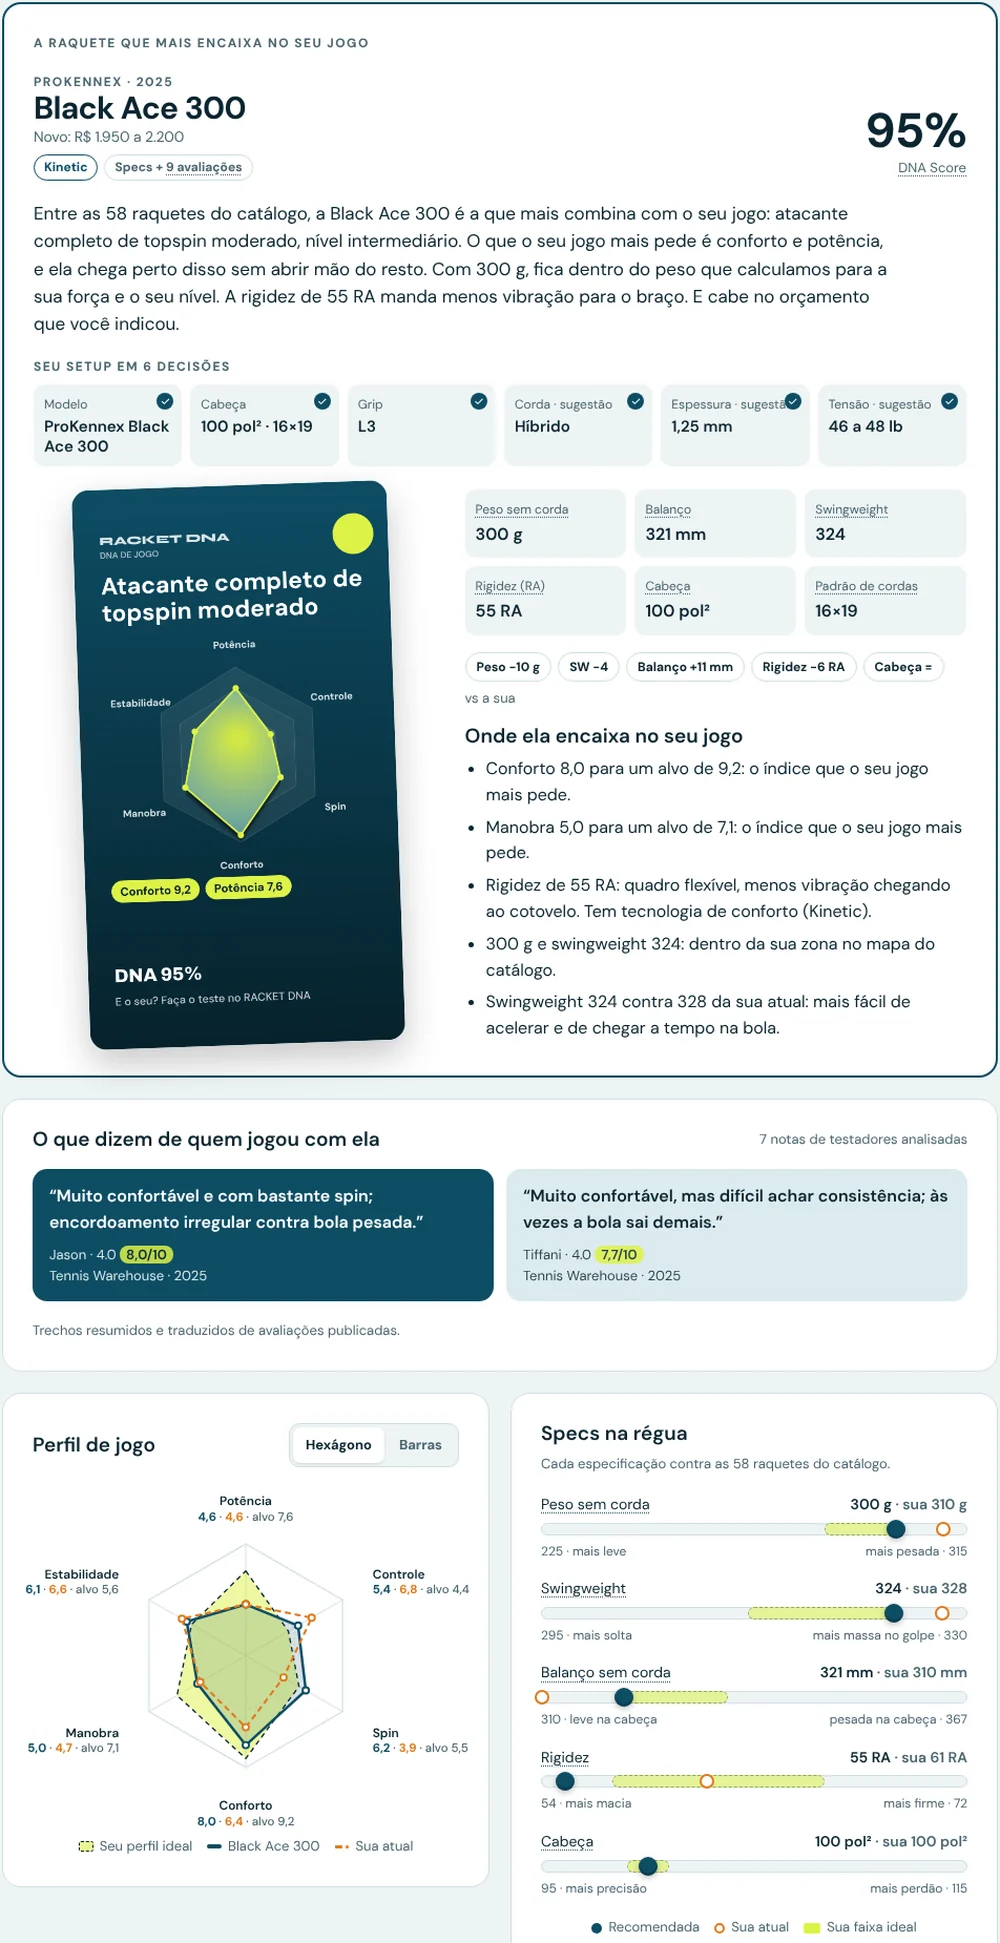
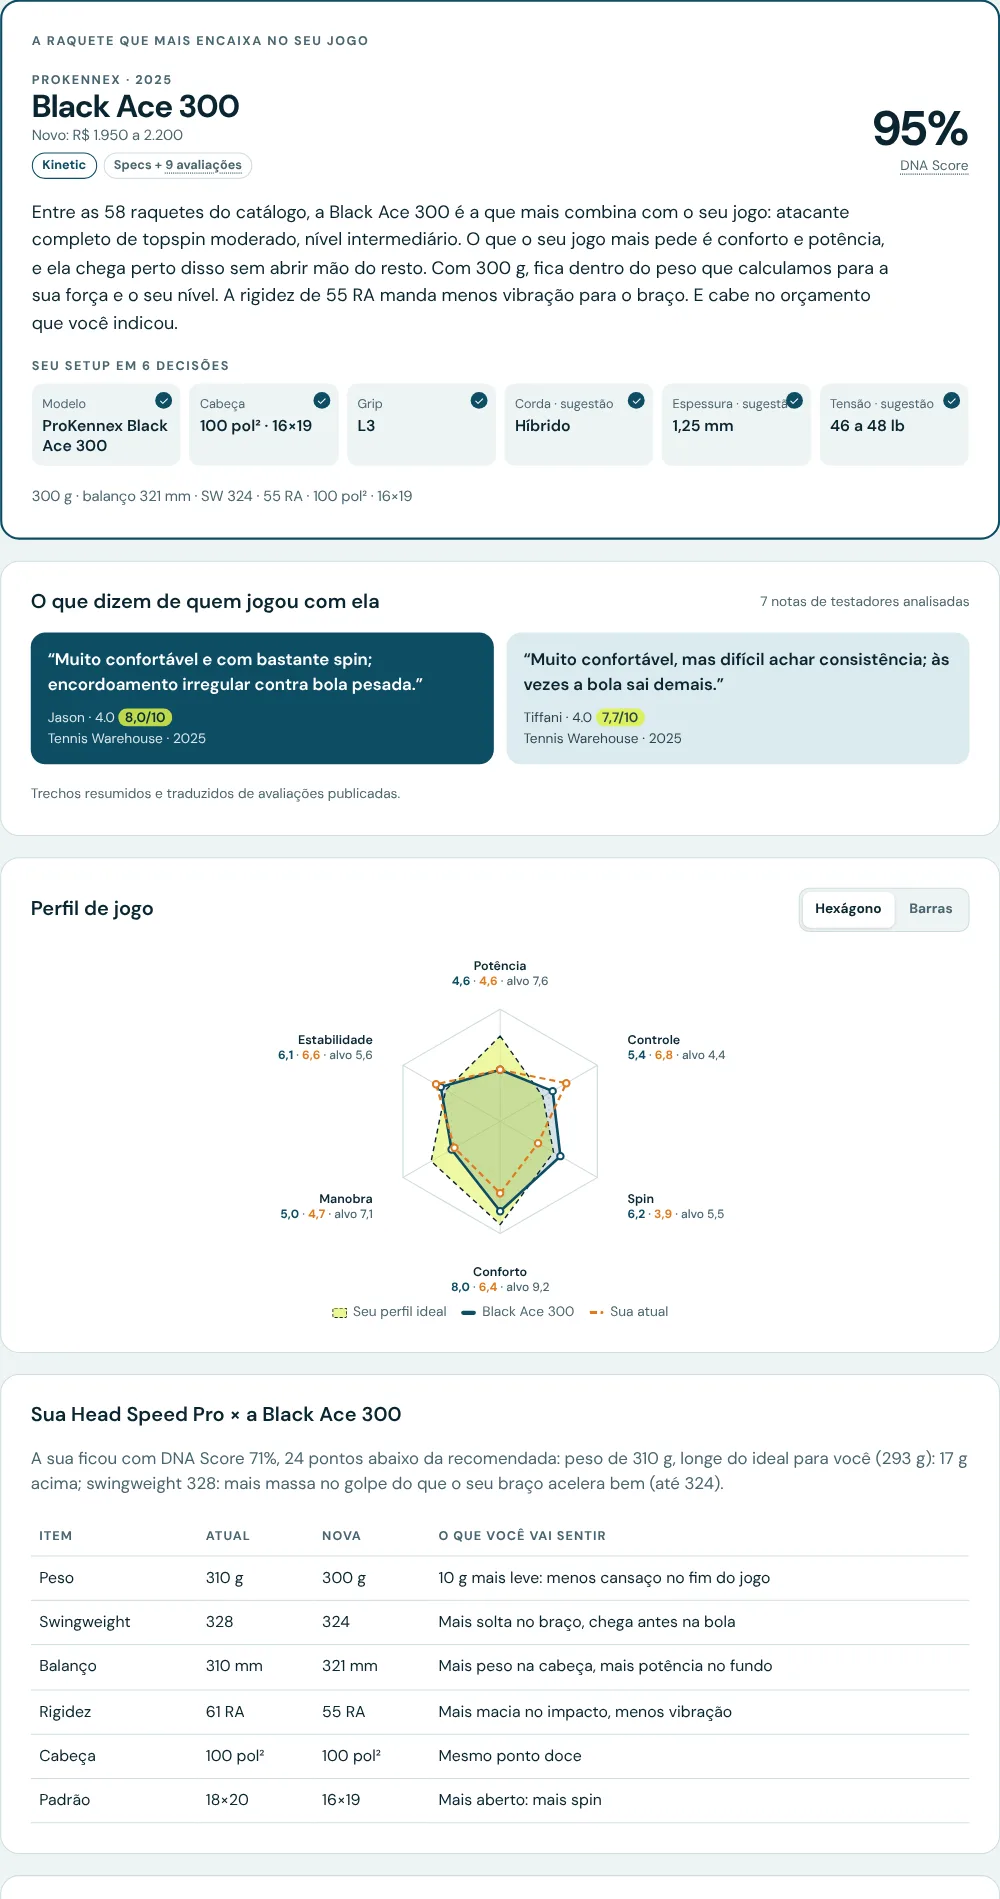
RACKET DNA: relatório mais limpo, de 12 para 6 telas no celular
- Topo: nome, DNA Score, parágrafo do porquê, setup em 6 decisões e uma linha de specs; sai a grade repetida, as etiquetas 'vs a sua', a lista 'Onde ela encaixa' e o card (vai para o fim).
- Perfil de jogo fica; régua de specs e 'O que observar na adaptação' ficam só no PDF.
- Sua atual × a nova num bloco só (tabela + por que ficou para trás).
- Saem os cartões de 2º e 3º (o ranking dos 10 mostra) e 'Antes de comprar' (no PDF).
- Comparador fechado atrás de 'Comparar duas raquetes'; cálculo da tensão em 'Ver o cálculo'.
- Card do DNA no painel do fim, com os botões de compartilhar.

Claude-Session: https://claude.ai/code/session_01FeT5v1rE5G5yAM5JWk7pgS

diff --git a/racket/index.html b/racket/index.html
@@ -286,6 +286,12 @@ footer{font-size:13px;color:var(--muted);border-top:1px solid var(--line);paddin
 .rpeek::after{content:"";position:absolute;inset:0;background:linear-gradient(180deg,transparent 45%,var(--bg) 100%)}
 .rpeek figcaption{position:absolute;left:50%;bottom:18px;transform:translateX(-50%);z-index:1;background:#0E4D64;color:#FFFFFF;font-weight:700;font-size:14px;padding:8px 14px;border-radius:99px;white-space:nowrap}
 @media (max-width:760px){.hook{grid-template-columns:minmax(0,1fr)}.rpeek{height:260px}}
+.specline{font-size:14px;color:var(--muted);margin:0}
+details.panel>summary.cmpsum{cursor:pointer;list-style:none;display:flex;justify-content:space-between;align-items:center;gap:12px;min-height:44px}
+details.panel>summary.cmpsum::-webkit-details-marker{display:none}
+details.panel>summary.cmpsum::after{content:'+';font-size:26px;font-weight:600;color:var(--pri)}details.panel[open]>summary.cmpsum::after{content:'−'}
+summary.cmpsum>span{display:flex;flex-direction:column;gap:4px}
+details.calc>summary{cursor:pointer;font-weight:600;color:var(--pri);min-height:24px;padding:4px 0}
 .whypara{font-size:17px;line-height:1.55;margin:0;max-width:70ch}
 .herocol{display:flex;flex-direction:column;gap:18px;min-width:0}.homecard{min-height:0}
 .cardpair{display:flex;justify-content:center;align-items:flex-start;padding:6px 0 10px}.cardpair .cardimg{width:50%;max-width:220px}.cardpair .cardimg+.cardimg{transform:rotate(3deg) translateY(14px);margin-left:-14px}.herocard .cardimg{max-width:300px}
@@ -1391,63 +1397,39 @@ function renderReport(){
     ${racketHead(w)}
     <p class="whypara">${whyPara(w,T)}</p>
     ${setup6(r,gs,st)}
-    <div class="hero-r">
-      <div id="cardOut" class="cardwrap herocard" aria-label="Seu DNA de jogo em card"></div>
-      <div style="display:flex;flex-direction:column;gap:16px">
-        ${specGrid(r)}
-        ${c?`<div class="row" style="gap:6px">${[['Peso','wt',' g'],['SW','sw',''],['Balanço','bal',' mm'],['Rigidez','ra',' RA'],['Cabeça','head','']].map(([l,k,u])=>{const d=r[k]-c[k];return `<span class="tag" style="color:var(--ink)">${l} ${d===0?'=':(d>0?'+':'−')+Math.abs(d)+u}</span>`}).join('')}<span class="note">vs a sua</span></div>`:''}
-        <div><h3 style="margin-bottom:8px">Onde ela encaixa no seu jogo</h3><ul class="why">${why(r,c,T).map(x=>`<li>${x}</li>`).join('')}</ul></div>
-      </div>
+    <p class="mono specline">${r.wt} g · balanço ${r.bal} mm · SW ${r.sw} · ${r.ra} RA · ${r.head} pol² · ${r.pat.replace('x','×')}</p>
+  </div>
     </div>
   </div>
   ${(REVQ[r.id]||[]).length?`<div class="panel"><div class="phead"><h3>O que dizem de quem jogou com ela</h3><span class="note">${r.ntw?r.ntw+' notas de testadores analisadas':'Reviews publicadas'}</span></div><div class="wq">${REVQ[r.id].slice(0,3).map(q=>`<div class="q"><p>“${esc(q[5])}”</p><small>${esc(q[1])}${q[2]?' · '+esc(q[2]):''}${q[3]?` <b>${dec(q[3])}/10</b>`:''}<br>${esc(q[0])}${q[4]?' · '+esc(q[4]):''}</small></div>`).join('')}</div><p class="note">Trechos resumidos e traduzidos de avaliações publicadas.</p></div>`:''}
-  <div class="two">
-    <div class="panel">${viz('rp',series,T,r.ix,c?c.ix:null)}</div>
-    <div class="panel">
-      <h3>Specs na régua</h3><p class="note" style="margin-top:-10px">Cada especificação contra as ${RK.length} raquetes do catálogo.</p>
-      ${specBars(r,c,Z)}
-    </div>
+  <div class="panel">${viz('rp',series,T,r.ix,c?c.ix:null)}</div>
   </div>
-  <div class="two">
-    <div class="panel">
-      <h3>O que observar na adaptação</h3><ul class="why">${attention(r).map(x=>`<li>${x}</li>`).join('')}</ul>
-      <div class="row" style="gap:22px">${c?`<div class="arm">${gauge(c.ix.arm)}<div><strong>Hoje: ${dec(c.ix.arm)}</strong><p class="muted" style="font-size:14px">${esc(c.model)}</p></div></div><span class="vs">→</span>`:''}<div class="arm">${gauge(r.ix.arm)}<div><strong>Braço Seguro: ${dec(r.ix.arm)}</strong><p class="muted" style="font-size:14px">${armTxt(r.ix.arm)}</p></div></div></div>
-      ${gs?`<p><strong>Grip recomendado: L${gs.g}</strong> <span class="muted">(${gs.src}). Na dúvida entre dois, escolha o menor e use overgrip.${A.dom==='L'?' Canhoto: o overgrip enrola no sentido contrário (puxando para a esquerda).':''}</span></p>`:''}
-    </div>
-    ${c?`<div class="panel"><h3>O que muda em relação à ${esc(c.name)}</h3><div class="tbl"><table><thead><tr><th>Item</th><th>Atual</th><th>Nova</th><th>O que você vai sentir</th></tr></thead><tbody>${feel(r,c).map(x=>`<tr><td>${x[0]}</td><td class="n">${x[1]}</td><td class="n">${x[2]}</td><td>${x[3]}</td></tr>`).join('')}</tbody></table></div></div>`
-     :`<div class="panel"><h3>Comparação com a sua raquete</h3><p class="muted">Você não informou um modelo do catálogo. Diga qual é a sua e refaça para ver a diferença lado a lado.</p></div>`}
-  </div>`;
+  ${c?`<div class="panel"><h3>Sua ${esc(c.name)} × a ${esc(r.model)}</h3>${curFit?`<p class="muted">A sua ficou com DNA Score ${curFit.fit}%, ${w.fit-curFit.fit} pontos abaixo da recomendada${curFit.pen.length?': '+curFit.pen.slice(0,2).map(p=>p[1].charAt(0).toLowerCase()+p[1].slice(1)).join('; ')+'.':'.'}</p>`:''}<div class="tbl"><table><thead><tr><th>Item</th><th>Atual</th><th>Nova</th><th>O que você vai sentir</th></tr></thead><tbody>${feel(r,c).map(x=>`<tr><td>${x[0]}</td><td class="n">${x[1]}</td><td class="n">${x[2]}</td><td>${x[3]}</td></tr>`).join('')}</tbody></table></div></div>`:''}`;
   if(tier>=2){
-    h+=`<div class="mini">${ranked.slice(1,3).map((x,i)=>`<div class="panel"><p class="eyebrow">${i+2}º lugar</p>${racketHead(x)}<p class="mono" style="font-size:14px">${x.r.wt} g · ${x.r.bal} mm · SW ${x.r.sw} · ${x.r.ra} RA · ${x.r.head} pol² · ${x.r.pat.replace('x','×')}</p><p style="font-size:15px">${why(x.r,c,T)[0]||''}</p></div>`).join('')}</div>
-    <div class="panel"><div class="phead"><h3>Mapa do catálogo</h3><span class="note">Peso × swingweight · passe o dedo nos pontos</span></div>${scatter(r,c,Z,ranked.slice(0,3))}
+    h+=`<div class="panel"><div class="phead"><h3>Mapa do catálogo</h3><span class="note">Peso × swingweight · passe o dedo nos pontos</span></div>${scatter(r,c,Z,ranked.slice(0,3))}
       <p class="note">Cada ponto é uma raquete. A zona lima é onde peso e swingweight batem com o seu perfil; os pontos mais fortes são o seu top 3.</p></div>
-    <div class="two">
-      <div class="panel"><h3>Ranking dos 10 melhores</h3><div class="rank">${(()=>{const list=ranked.slice(0,10);if(curFit&&!list.includes(curFit))list.push(curFit);return list.sort((a,b)=>b.fit-a.fit).map(x=>`<div class="rk${x===w?' win':''}${curFit&&x===curFit?' cur':''}"><span class="pos" style="font-size:14px">${curFit&&x===curFit?'—':ranked.indexOf(x)+1}</span><div class="nm"><i style="width:${x.fit}%"></i><span>${esc(x.r.name)}${curFit&&x===curFit?' (sua)':''}${x.r.br==='d'?' · importada':''}</span></div><b>${x.fit}%</b></div>`).join('')})()}</div></div>
-      ${curFit?`<div class="panel"><h3>Por que a sua atual ficou para trás</h3><p class="muted">${esc(c.name)}: DNA Score ${curFit.fit}%, ${w.fit-curFit.fit} pontos abaixo da recomendada.</p><ul class="why">${curFit.pen.slice(0,4).map(p=>`<li>${p[1]}.</li>`).join('')||'<li>Ela está próxima do seu perfil; a troca é ganho fino, não correção.</li>'}</ul></div>`
-       :`<div class="panel"><h3>Por que não a 4ª colocada</h3><p class="muted">${esc(ranked[3].r.name)}: ${ranked[3].fit}%.</p><ul class="why">${ranked[3].pen.slice(0,3).map(p=>`<li>${p[1]}.</li>`).join('')||'<li>Ficou perto; a diferença está no perfil de jogo.</li>'}</ul></div>`}
-    </div>
-    <div class="panel" id="cmp"><h3>Comparador</h3><p class="note" style="margin-top:-10px">Qualquer raquete do catálogo contra qualquer outra, com o DNA Score de cada uma para o seu perfil.</p>
+    <div class="panel"><h3>Ranking dos 10 melhores</h3><div class="rank">${(()=>{const list=ranked.slice(0,10);if(curFit&&!list.includes(curFit))list.push(curFit);return list.sort((a,b)=>b.fit-a.fit).map(x=>`<div class="rk${x===w?' win':''}${curFit&&x===curFit?' cur':''}"><span class="pos" style="font-size:14px">${curFit&&x===curFit?'—':ranked.indexOf(x)+1}</span><div class="nm"><i style="width:${x.fit}%"></i><span>${esc(x.r.name)}${curFit&&x===curFit?' (sua)':''}${x.r.br==='d'?' · importada':''}</span></div><b>${x.fit}%</b></div>`).join('')})()}</div></div>
+    <details class="panel" id="cmp"><summary class="cmpsum"><span><b>Comparar duas raquetes</b><span class="note">Qualquer raquete do catálogo contra qualquer outra, com o DNA Score de cada uma para o seu perfil.</span></span></summary>
       <div class="cmpsel"><select id="cmpA" aria-label="Raquete A">${optList(r.id)}</select><span class="vs">VS</span><select id="cmpB" aria-label="Raquete B">${optList(c?c.id:ranked[1].r.id)}</select></div>
-      <div id="cmpOut"></div></div>
+      <div id="cmpOut"></div></details>
     <div class="panel"><h3>Sugestão de corda e tensão</h3><p class="note" style="margin-top:-10px">Ponto de partida, não regra: corda é gosto pessoal. Use a sugestão no primeiro encordoamento e ajuste pela sensação.</p>
       <div class="tbl"><table><thead><tr><th>Para</th><th>Corda</th><th>Tensão</th><th>Trocar</th></tr></thead><tbody>
       <tr><td>${esc(r.model)} (nova)</td><td>${st.s}</td><td class="n">${st.lb[0]} a ${st.lb[1]} lb<br>${st.kg[0]} a ${st.kg[1]} kg</td><td>${st.swap}</td></tr>
       ${c?(()=>{const s2=stringSetup(c);return `<tr><td>${esc(c.model)} (a sua)</td><td>${s2.s}</td><td class="n">${s2.lb[0]} a ${s2.lb[1]} lb<br>${s2.kg[0]} a ${s2.kg[1]} kg</td><td>${s2.swap}</td></tr>`})():''}
       </tbody></table></div>
-      <div><p class="eyebrow" style="margin-bottom:6px">Como chegamos em ${st.base} lb para a ${esc(r.model)}</p><div class="tbl"><table style="min-width:0"><tbody>${st.steps.map((x,i)=>`<tr><td>${x[0]}</td><td class="n" style="text-align:right">${i?(x[1]>0?'+':'−')+Math.abs(x[1]):x[1]} lb</td></tr>`).join('')}<tr><td><strong>Centro da faixa</strong></td><td class="n" style="text-align:right"><strong>${st.base} lb</strong></td></tr></tbody></table></div></div>
+      <details class="calc"><summary>Ver o cálculo da tensão (${st.base} lb para a ${esc(r.model)})</summary><div class="tbl"><table style="min-width:0"><tbody>${st.steps.map((x,i)=>`<tr><td>${x[0]}</td><td class="n" style="text-align:right">${i?(x[1]>0?'+':'−')+Math.abs(x[1]):x[1]} lb</td></tr>`).join('')}<tr><td><strong>Centro da faixa</strong></td><td class="n" style="text-align:right"><strong>${st.base} lb</strong></td></tr></tbody></table></div></details>
       ${st.vs?`<p><strong>${st.vs}</strong></p>`:''}${st.rs?`<p class="muted">${st.rs}</p>`:''}
       <p class="note">Comece pelo meio da faixa. Bola indo longa: suba 2 lb no próximo encordoamento. Sem profundidade ou com dor: desça 2 lb.${A.string==='poly'&&A.arm!=='no'?' Poliéster perde tensão rápido e endurece; com histórico de dor, não passe do prazo de troca.':''}</p>
     </div>
-    <div class="panel"><h3>Antes de comprar</h3>
-      <ul class="why"><li>Confira peso e balanço numa balança de loja: a mesma raquete varia até 7 g.</li><li>Compre em loja que aceite troca do grip ou ofereça o tamanho certo; grip errado não tem conserto barato.</li><li>Encordoe na tensão indicada: a corda de fábrica costuma vir genérica.</li><li>Teste antes: várias lojas emprestam raquete de demonstração por alguns dias.</li></ul>
-    </div>`;
+`;
   }else{
     h+=`<div class="lock"><h3>2º e 3º lugares, mapa, ranking, comparador e corda</h3><p class="muted">As alternativas, o mapa peso × swingweight do catálogo, o ranking dos 10, o comparador livre e a corda e tensão para a nova e para a sua fazem parte do relatório completo, que também sai em PDF A4.</p><button class="btn btn-go" type="button" id="up">Liberar por R$ 19,99</button></div>`;
   }
-  h+=`<div class="panel dna"><div>
+  h+=`<div class="panel dna"><div class="dnagrid">
+      <div id="cardOut" class="cardwrap" aria-label="Seu DNA de jogo em card"></div>
       <div style="display:flex;flex-direction:column;gap:12px">
         <p class="eyebrow">Seu DNA de jogo</p><h2>${archetype()}</h2>
-        <p class="muted">O card lá em cima está pronto para o story do Instagram ou o status do WhatsApp. Mostra o seu perfil, não a raquete.</p>
+        <p class="muted">O card ao lado está pronto para o story do Instagram ou o status do WhatsApp. Mostra o seu perfil, não a raquete.</p>
         <p style="font-weight:600">E o seu parceiro de quadra, joga como você?</p>
         <div class="row"><button class="btn btn-go" type="button" id="shareCard">Compartilhar</button><button class="btn btn-ghost" type="button" id="dlCard">Salvar card do DNA</button>${tier>=2?'<button class="btn btn-ghost" type="button" id="dlRacket">Salvar card da raquete</button>':''}</div>
       </div></div></div>
@@ -1459,7 +1441,7 @@ function renderReport(){
   $('#report').querySelector('[data-save]').onclick=saveBox;
   $('#report').querySelectorAll('[data-pdf]').forEach(b=>b.onclick=()=>downloadPDF(b));
   $('#dlCard').onclick=downloadCard;if($('#dlRacket'))$('#dlRacket').onclick=downloadRacketCard;$('#shareCard').onclick=shareCard;previewCard();
-  if(tier>=2){const f=()=>renderCmp();$('#cmpA').onchange=f;$('#cmpB').onchange=f;f()}
+  if(tier>=2){const f=()=>renderCmp();$('#cmpA').onchange=f;$('#cmpB').onchange=f;$('#cmp').addEventListener('toggle',()=>{if($('#cmp').open&&!$('#cmpOut').innerHTML)f()})}
 }
 const topKeys=()=>KEYS.slice().sort((a,b)=>RES.T[b]-RES.T[a]).slice(0,2);
 function optList(sel){const by={};RK.forEach(r=>{(by[r.brand]=by[r.brand]||[]).push(r)});return Object.keys(by).sort().map(b=>`<optgroup label="${esc(b)}">${by[b].map(r=>`<option value="${r.id}"${r.id===sel?' selected':''}>${esc(r.name)}</option>`).join('')}</optgroup>`).join('')}
